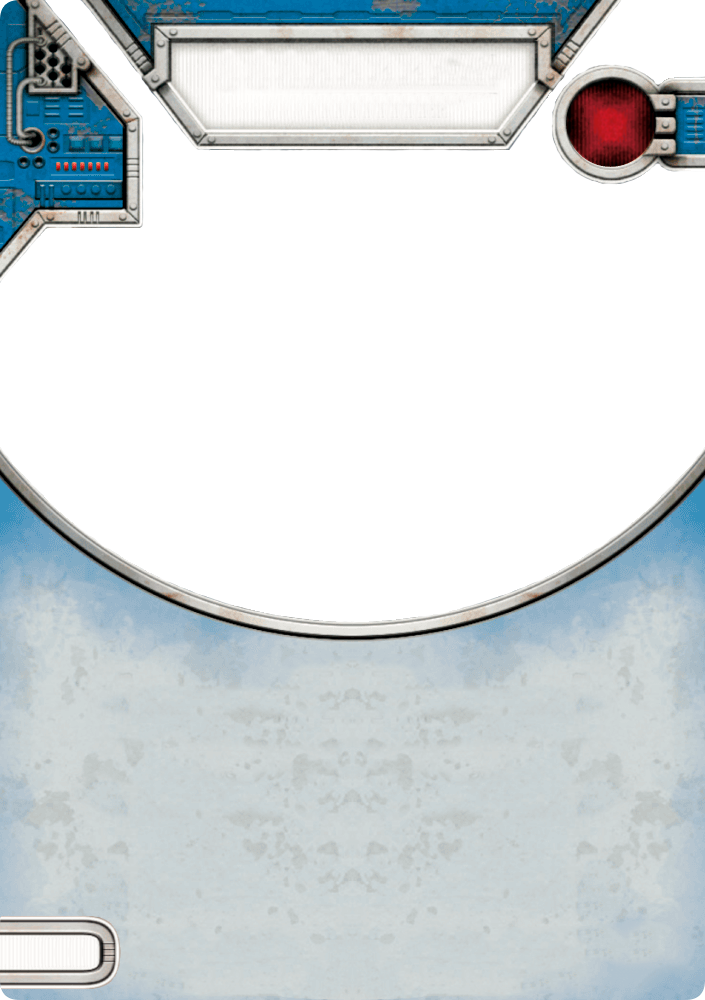
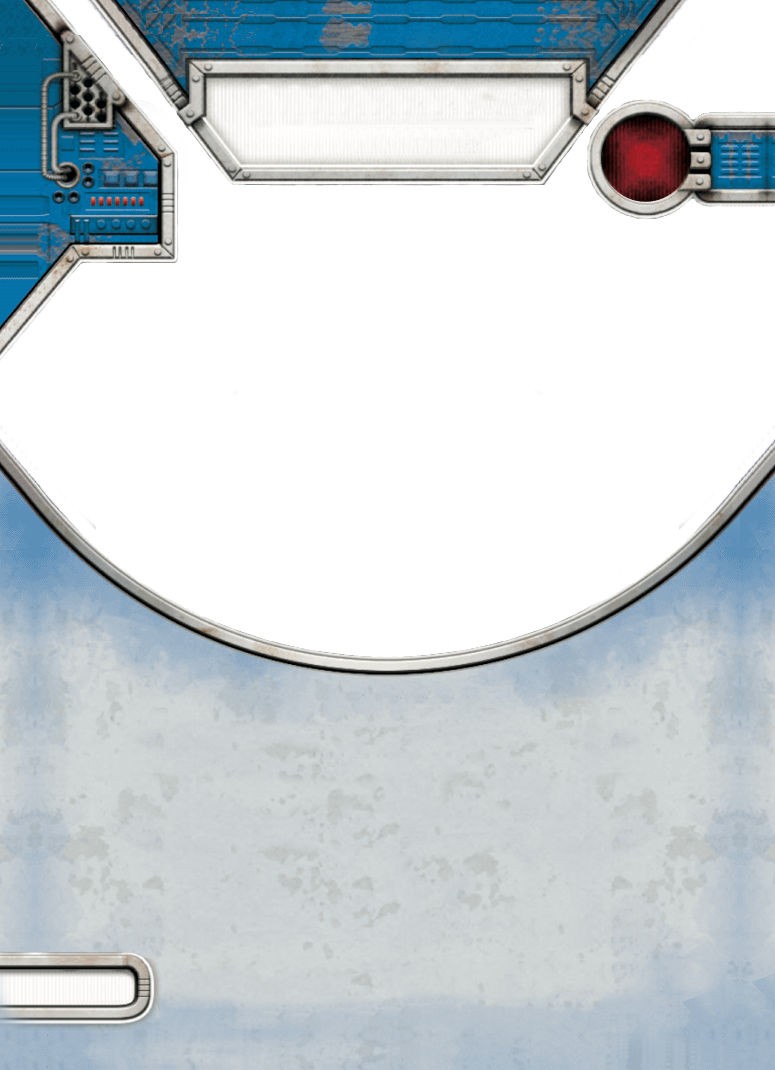
Add green cards

diff --git a/apps/card-builder/src/styles.scss b/apps/card-builder/src/styles.scss
@@ -91,14 +91,17 @@ swd-die-side {
 
     .card-signature {
         font-size: 14px;
-        bottom: 15px;
+        bottom: 14px;
         left: 620px;
-        color: black;
     }
 
     .card-affiliation {
         left: 500px;
-        bottom: 16px;
+        bottom: 14px;
+    }
+
+    .card-number {
+        bottom: 14px;
     }
 
     .card-text {
@@ -112,13 +115,20 @@ swd-die-side {
         bottom: 14px;
         left: 410px;
         width: 80px;
-        height: 26px;
         background-color: #eee;
     }
 
     .card-cost,
     .card-type {
         display: none;
+    }
+
+    .card-die {
+        top: -12px;
+    }
+
+    .card-header-subtitle {
+        line-height: 28px;
     }
 }
 
@@ -128,7 +138,7 @@ swd-die-side {
     }
 
     .card-die {
-        top: 0;
+        top: -12px;
         right: -4px;
     }
 
@@ -141,7 +151,7 @@ swd-die-side {
     }
 
     .card-header {
-        top: 506px;
+        top: 502px;
     }
 
     .card-type {
@@ -201,6 +211,11 @@ swd-die-side {
     }
 }
 .card-type-downgrade {
+    .card-image-background {
+        top: 0;
+        left: 0;
+    }
+
     .card-header {
         top: 30px;
     }
@@ -246,13 +261,13 @@ swd-die-side {
     }
 
     .card-die {
-        top: 0;
+        top: -12px;
         right: -4px;
     }
 }
 .card-type-event {
     .card-header {
-        top: 568px;
+        top: 566px;
     }
 
     .card-text {
@@ -375,6 +390,11 @@ swd-die-side {
         position: absolute;
         width: 100%;
         height: auto;
+
+        &-background {
+            top: -35px;
+            left: -35px;
+        }
 
         &-container {
             position: absolute;
@@ -556,13 +576,19 @@ swd-die-side {
 
     &-signature {
         display: flex;
-        align-items: center;
         font-family: "ITC Symbol Std";
         font-size: 16px;
         bottom: 20px;
         left: 315px;
         height: 24px;
         color: gray;
+        background-color: #c5cdc6;
+        border: 2px solid gray;
+        border-radius: 5px;
+        padding: 0 6px 0;
+        width: 250px;
+        justify-content: center;
+        align-items: flex-end;
     }
 
     &-number {

diff --git a/apps/card-builder/src/app/card/card.component.html b/apps/card-builder/src/app/card/card.component.html
@@ -11,7 +11,7 @@
 <img
     #cardBackElement
     [src]="'assets/' + this.data.type.toLowerCase() + '-' + this.data.color.toLowerCase() + '.png'"
-    class="card-item"
+    class="card-item card-image-background"
 />
 
 <span class="card-item card-life">{{ data?.life }}</span>
